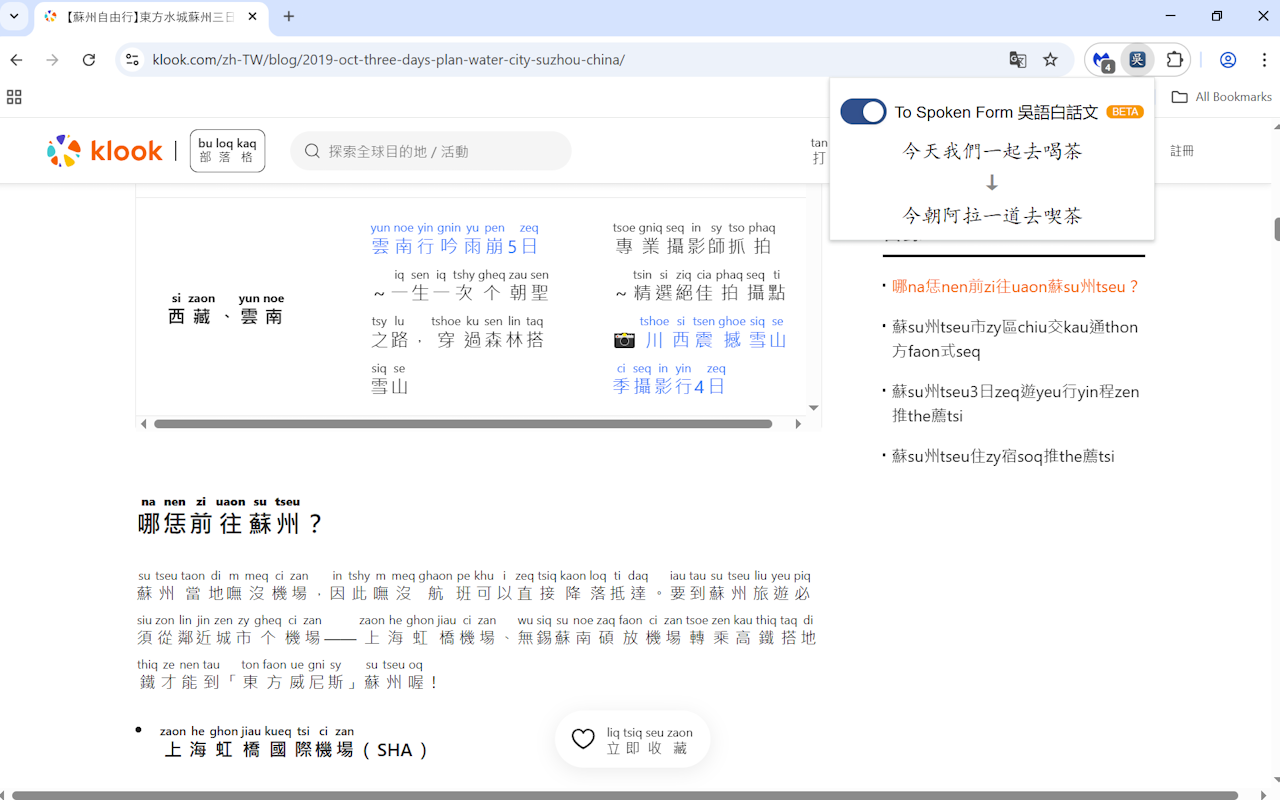
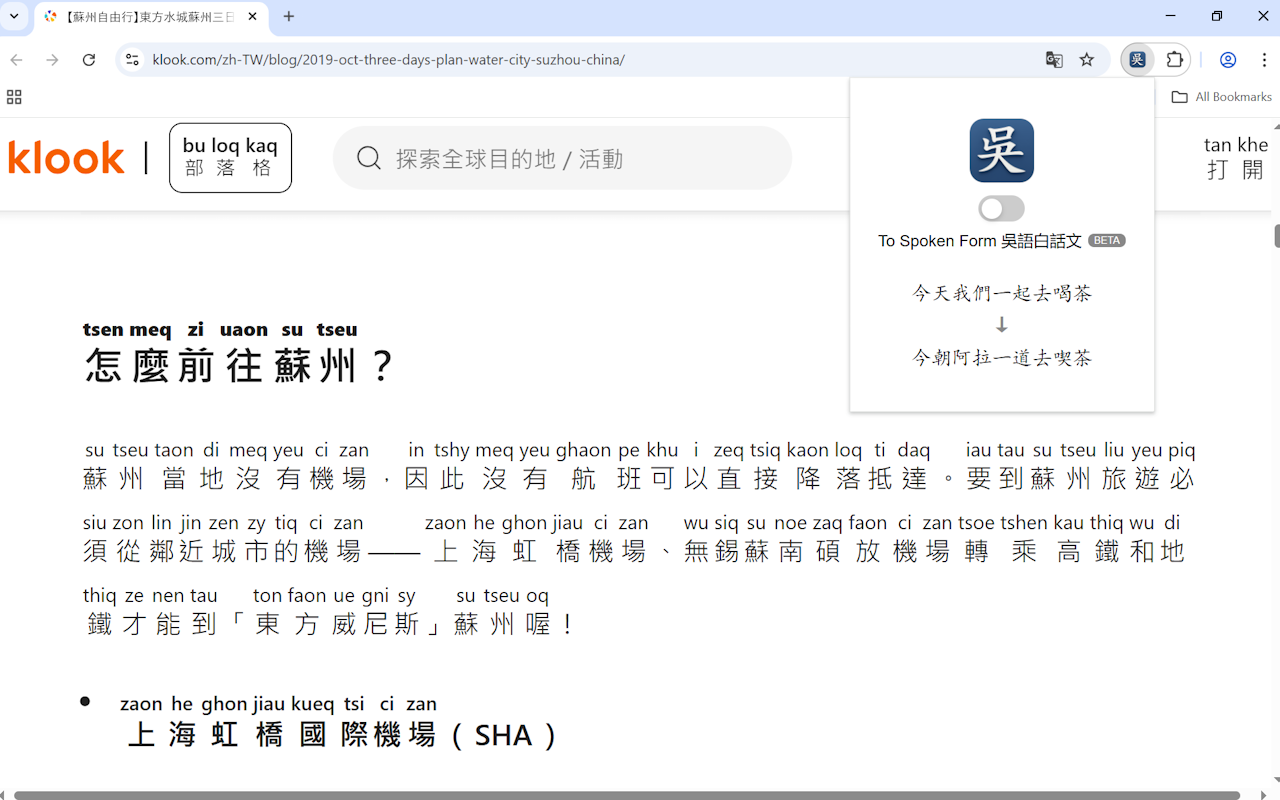
Add files via upload

diff --git a/popup.html b/popup.html
@@ -6,34 +6,34 @@
   <style>
     body {
       font-family: sans-serif;
-      padding: 20px 10px 10px;
+      padding: 20px 10px;
       margin: 0;
       min-width: 280px;
       background: #fff;
     }
 
-    .row {
+    .container {
       display: flex;
+      flex-direction: column;
       align-items: center;
-      justify-content: center;
-      gap: 8px;
-      font-size: 16px;
-      white-space: nowrap;
+      justify-content: flex-start;
+      padding: 20px 10px;
+      text-align: center;
+    }
+
+    .icon {
+      width: 64px;
+      height: 64px;
       margin-bottom: 12px;
-      flex-wrap: nowrap;
     }
 
-    .beta-badge {
-      background-color: #f90;
-      color: white;
-      font-size: 10px;
-      padding: 1px 6px;
-      border-radius: 6px;
-      text-transform: uppercase;
-      flex-shrink: 0;
+    .toggle-block {
+      display: flex;
+      flex-direction: column;
+      align-items: center;
+      margin-bottom: 20px;
     }
 
-    /* Clean and proportional toggle */
     .switch {
       position: relative;
       display: inline-block;
@@ -77,6 +77,27 @@
       transform: translateX(20px);
     }
 
+    .label-text {
+      font-size: 16px;
+      margin-top: 8px;
+      display: flex;
+      align-items: center;
+      gap: 6px;
+      flex-wrap: nowrap;
+      white-space: nowrap;
+      justify-content: center;
+    }
+
+    .beta-badge {
+      background-color: #888;
+      color: white;
+      font-size: 10px;
+      padding: 1px 6px;
+      border-radius: 6px;
+      text-transform: uppercase;
+      flex-shrink: 0;
+    }
+
     .example-block {
       font-family: "Kaiti", "楷体", "KaiTi", "KaiTi_GB2312", serif;
       font-size: 20px;
@@ -94,20 +115,26 @@
   </style>
 </head>
 <body>
+  <div class="container">
+    <img src="icon.png" alt="Icon" class="icon" />
 
-  <div class="row">
-    <label class="switch">
-      <input type="checkbox" id="toggle">
-      <span class="slider"></span>
-    </label>
-    <span>To Spoken Form 吳語白話文</span>
-    <span class="beta-badge">Beta</span>
-  </div>
+    <div class="toggle-block">
+      <label class="switch">
+        <input type="checkbox" id="toggle">
+        <span class="slider"></span>
+      </label>
 
-  <div class="example-block">
-    <div class="mandarin">今天我們一起去喝茶</div>
-    <div class="arrow">↓</div>
-    <div class="wuyu">今朝阿拉一道去喫茶</div>
+      <div class="label-text">
+        To Spoken Form 吳語白話文
+        <span class="beta-badge">Beta</span>
+      </div>
+    </div>
+
+    <div class="example-block">
+      <div class="mandarin">今天我們一起去喝茶</div>
+      <div class="arrow">↓</div>
+      <div class="wu">今朝阿拉一道去喫茶</div>
+    </div>
   </div>
 
   <script src="popup.js"></script>
